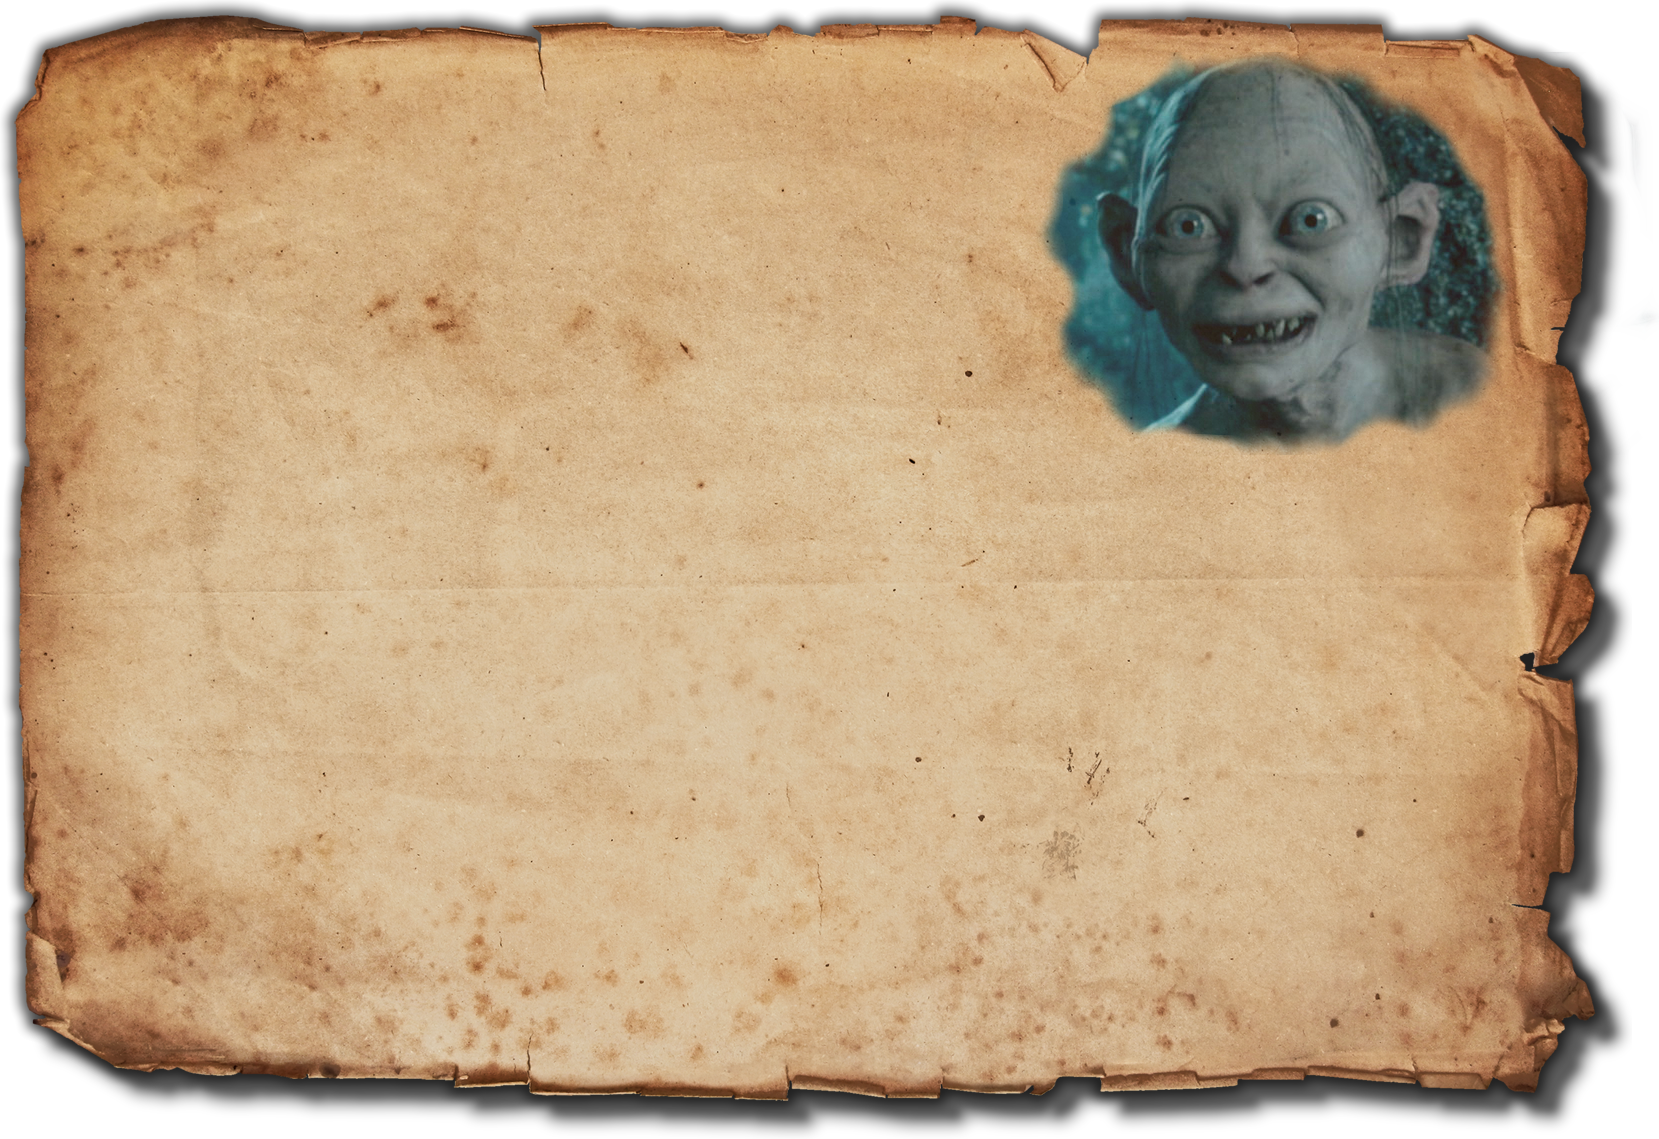
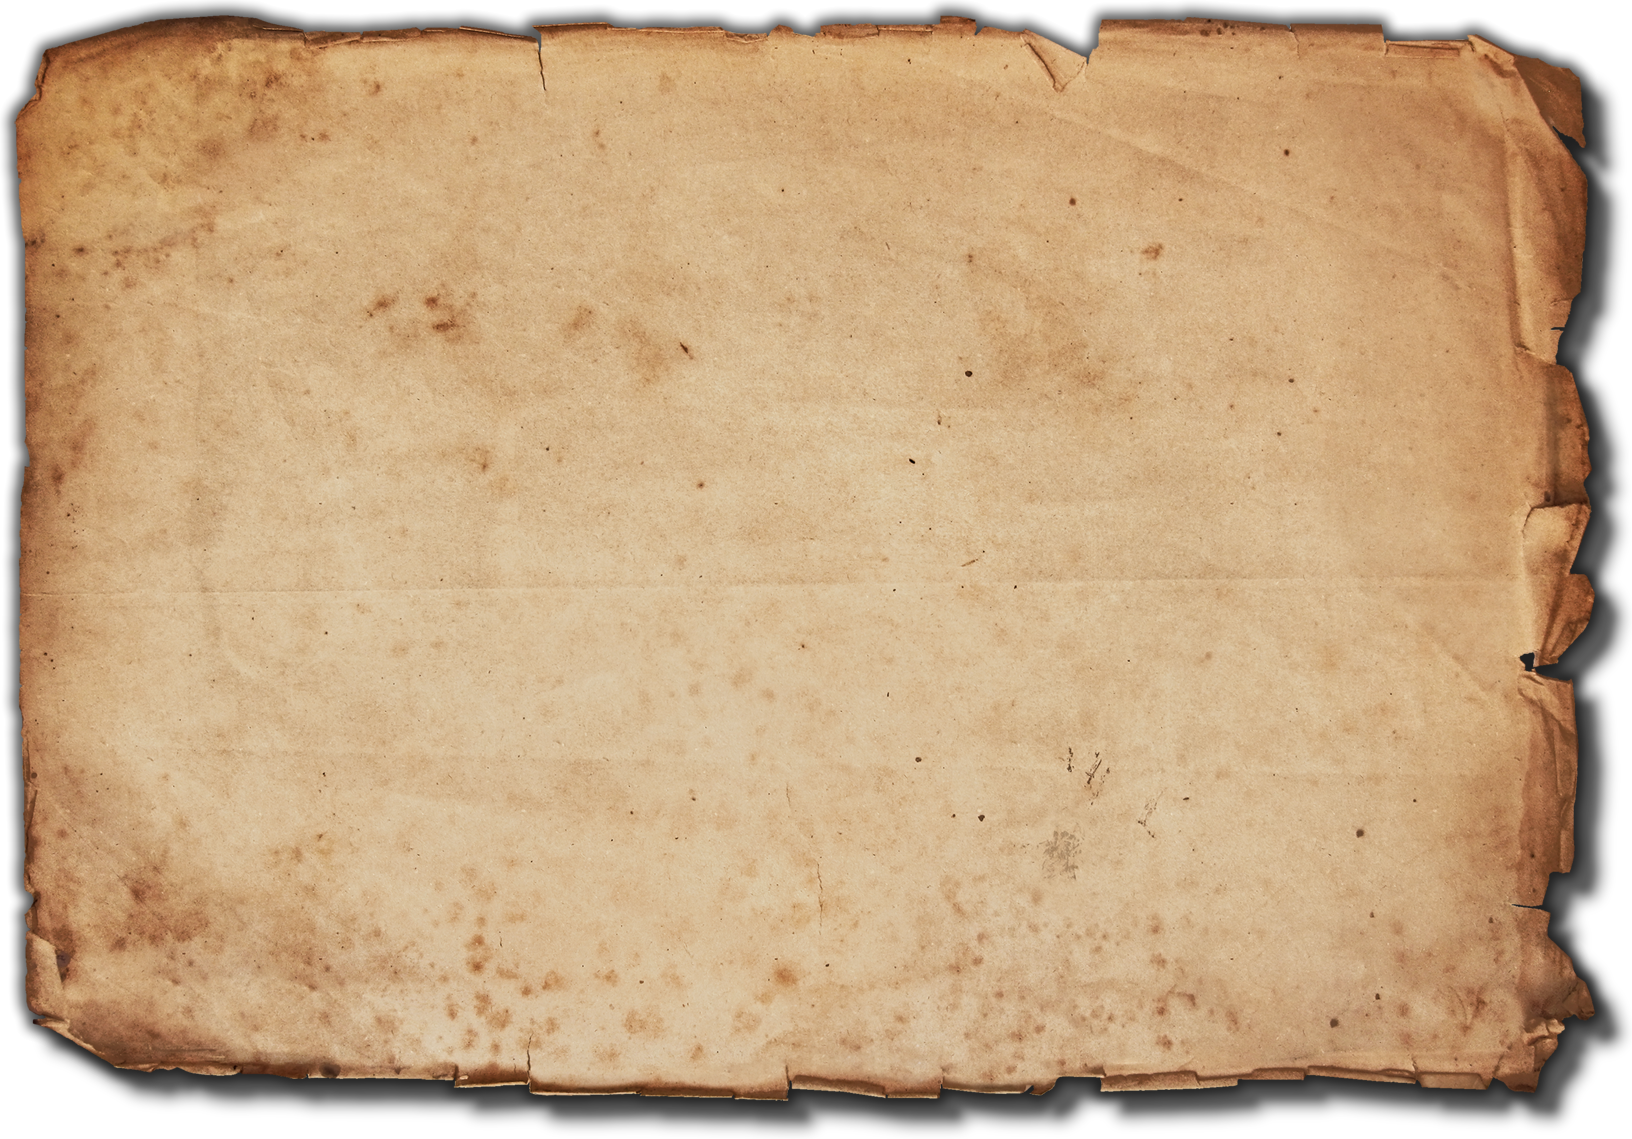
Added a background selected image for correct/incorrect answer selection

diff --git a/HobbitTrivia/ViewController.m b/HobbitTrivia/ViewController.m
@@ -251,12 +251,22 @@ int correctChoice;
 			didMakeChoice = YES;
 			int selectedAnswer = touch.view.tag - 100;
 			UILabel *label = (UILabel*)touch.view;
+			
+			CGRect answerFrame = CGRectMake(self.answerBG.frame.origin.x, label.frame.origin.y + 6, self.answerBG.frame.size.width, self.answerBG.frame.size.height);
+			
+			self.answerBG.frame = answerFrame;
+			
 			if (selectedAnswer == correctChoice)
 			{
-				[label setTextColor:[UIColor greenColor]];
+				[self.answerBG setImage:[UIImage imageNamed:@"CorrectAnswerBG"]];
 			} else {
-				[label setTextColor:[UIColor redColor]];
+				[self.answerBG setImage:[UIImage imageNamed:@"WrongAnswerBG"]];
 			}
+			
+			[UIView animateWithDuration:0.25 animations:^{
+				self.answerBG.alpha = 1;
+				label.textColor = [UIColor whiteColor];
+			}];
 			
 			// set timer to dismiss the question
 			[NSTimer scheduledTimerWithTimeInterval:5.0 target:self selector:@selector(hideQuestion) userInfo:nil repeats:NO];
@@ -277,6 +287,8 @@ int correctChoice;
     }];
 	
 	self.SpinButton.enabled = YES;
+	
+	[self.answerBG setAlpha:0.0f];
 	
 }
 

diff --git a/HobbitTrivia/ViewController.h b/HobbitTrivia/ViewController.h
@@ -23,5 +23,6 @@
 @property (weak, nonatomic) IBOutlet UILabel *answerLabel2;
 @property (weak, nonatomic) IBOutlet UILabel *answerLabel3;
 @property (weak, nonatomic) IBOutlet UILabel *answerLabel4;
+@property (weak, nonatomic) IBOutlet UIImageView *answerBG;
 
 @end
